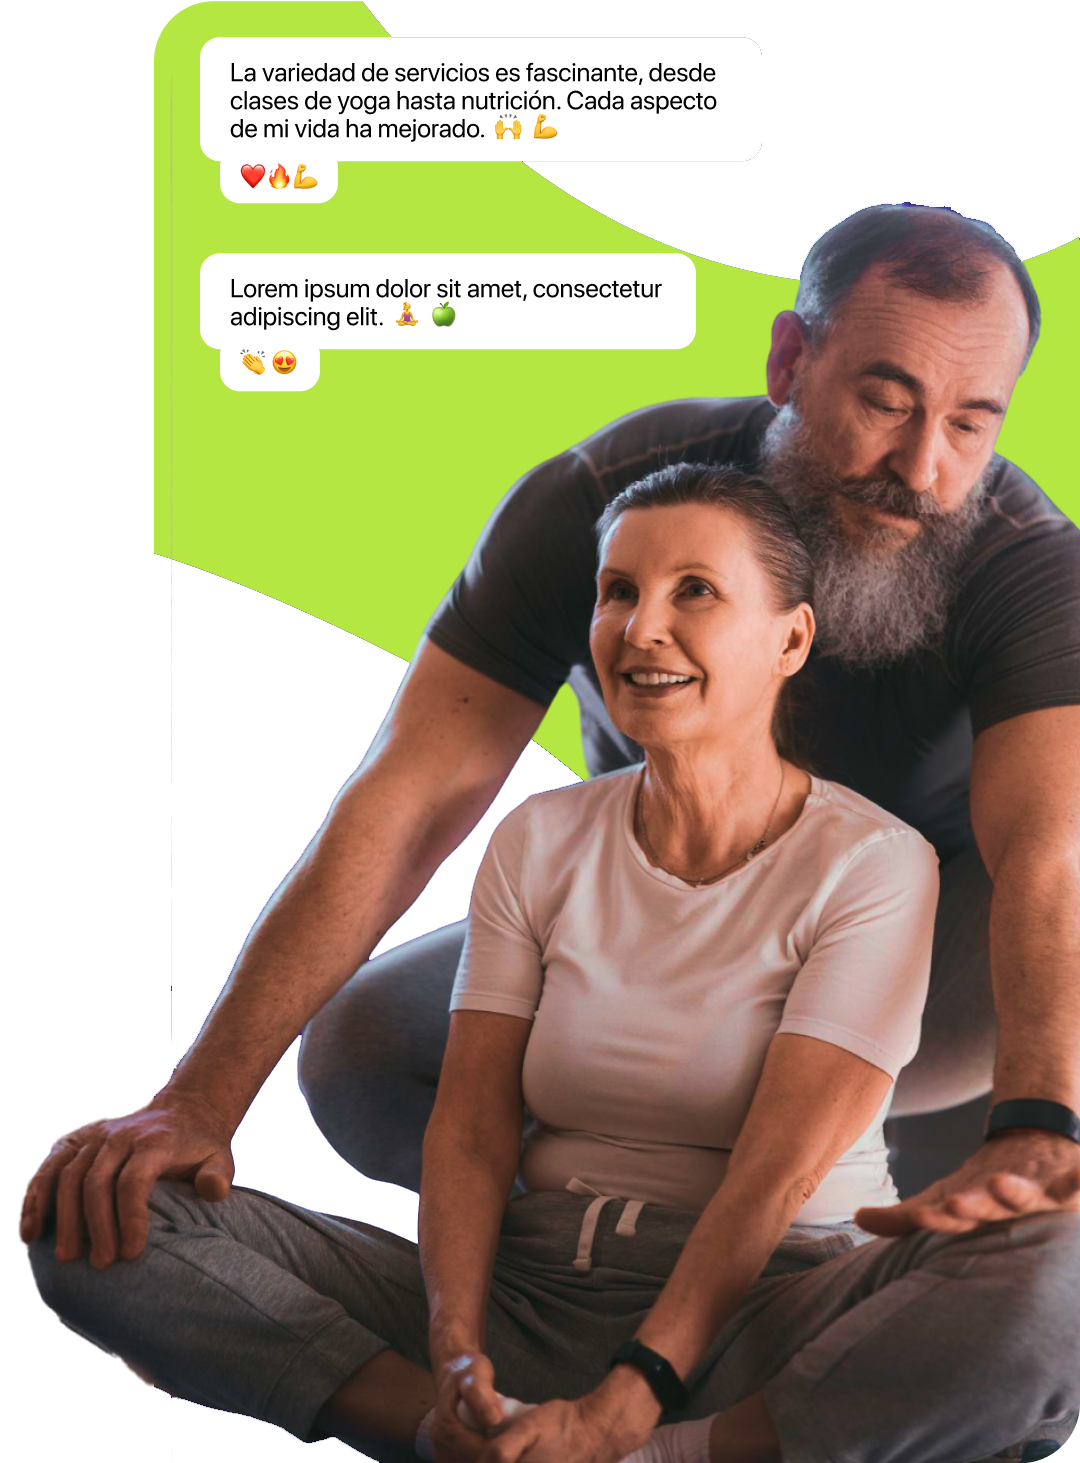
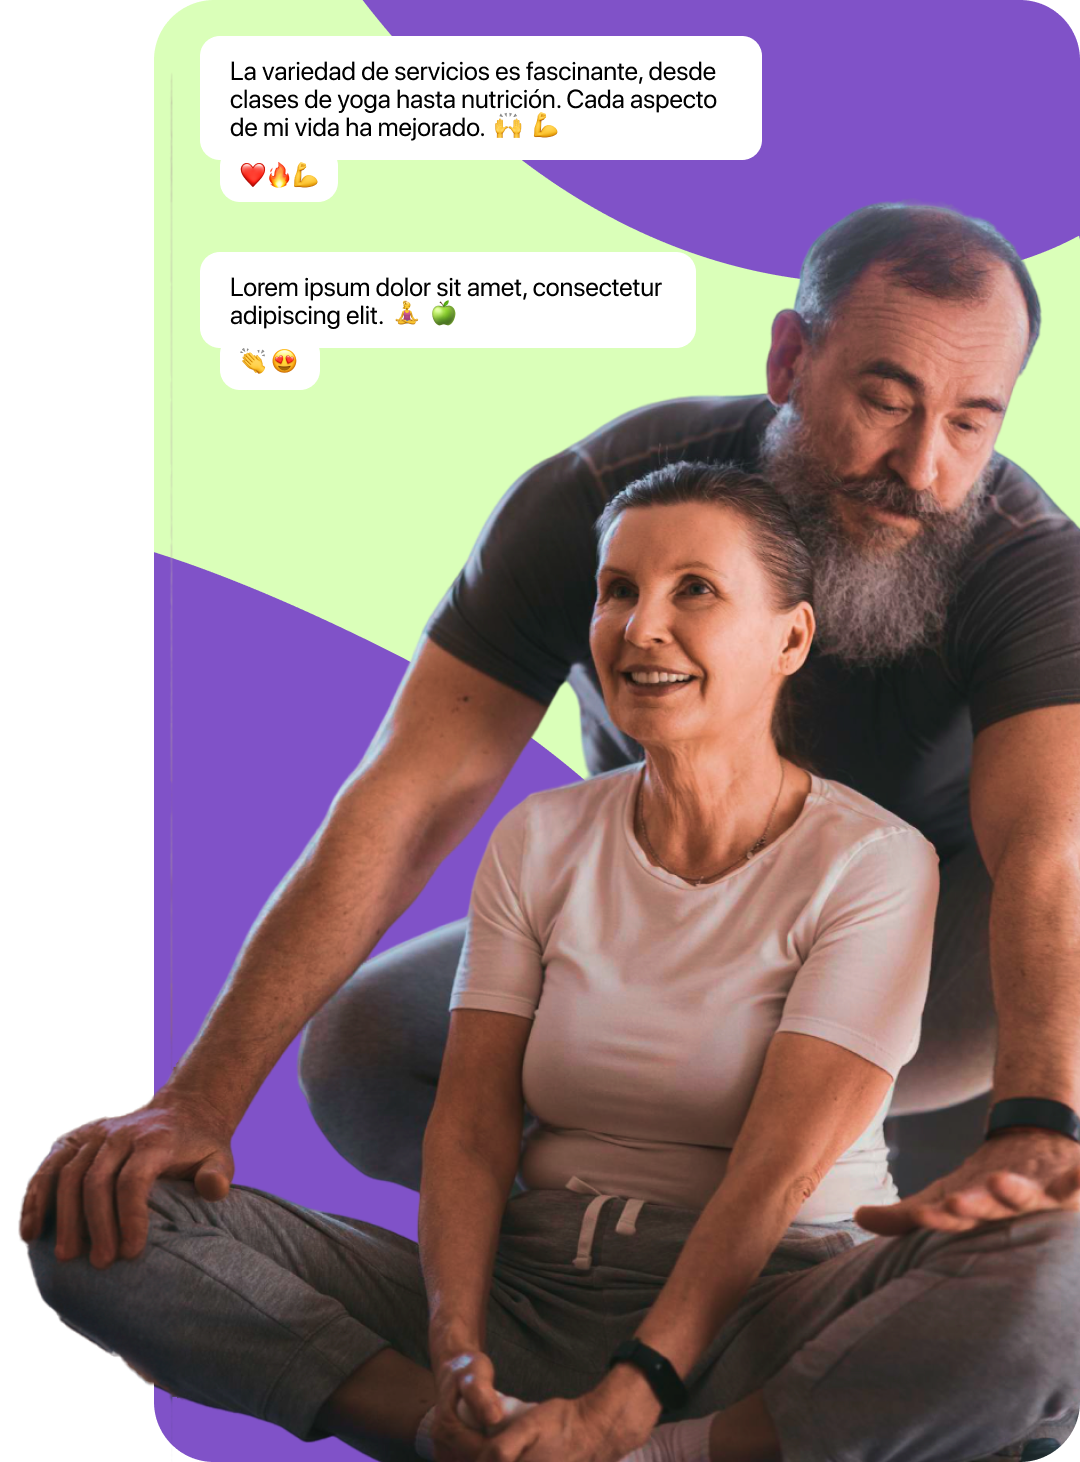
Prev color

diff --git a/index.html b/index.html
@@ -114,7 +114,7 @@
       <div class="container">
         <div class="row gy-4">
           <div class="col-lg-5 order-2 order-lg-1 d-flex flex-column justify-content-center" data-aos="zoom-out">
-            <h1>Despertá tu <span>potencial</span></h1>
+            <h1>Despertá tu <span>#potencial</span></h1>
             <br>
             <p>Descubre un espacio donde tu cuerpo y mente encuentran equilibrio. ¡Únete a nuestros cursos guiados por expertos y consigue la motivación y el conocimiento que necesitas para alcanzar tus metas!</p>
             <div class="d-flex">
@@ -127,11 +127,11 @@
 
             <br>
             <div class="clients-container" >
-              <div class="circle"></div>
-              <div class="circle"></div>
-              <div class="circle"></div>
-              <div class="circle"></div>
-              <div class="square">+1000 clientes satisfechos</div>
+              <div style="background-image: url('assets/img/testimonials/testimonials-1.jpg');" class="circle"></div>
+              <div style="background-image: url('assets/img/testimonials/testimonials-2.jpg');" class="circle"></div>
+              <div style="background-image: url('assets/img/testimonials/testimonials-3.jpg');" class="circle"></div>
+              <div style="background-image: url('assets/img/testimonials/testimonials-4.jpg');" class="circle"></div>
+              <div class="square">+100K clientes satisfechos</div>
             </div>
 
 
@@ -153,6 +153,63 @@
       <div class="container section-title" data-aos="fade-up">
         <img style="padding: 0%; margin: 0%; width: 120%;" src="assets/img/Palabras.png" alt="" class="img-fluid">
       </div><!-- Quotes img -->
+
+              <!-- Clients Section -->
+ 
+             <!-- <section id="clients" class="clients section">
+            
+    
+                <div class="container">
+          
+                  <div class="swiper">
+                    <script type="application/json" class="swiper-config">
+                      {
+                        "loop": true,
+                        "speed": 600,
+                        "autoplay": {
+                          "delay": 5000
+                        },
+                        "slidesPerView": "auto",
+                        "pagination": {
+                          "el": ".swiper-pagination",
+                          "type": "bullets",
+                          "clickable": true
+                        },
+                        "breakpoints": {
+                          "320": {
+                            "slidesPerView": 2,
+                            "spaceBetween": 40
+                          },
+                          "480": {
+                            "slidesPerView": 3,
+                            "spaceBetween": 60
+                          },
+                          "640": {
+                            "slidesPerView": 4,
+                            "spaceBetween": 80
+                          },
+                          "992": {
+                            "slidesPerView": 6,
+                            "spaceBetween": 120
+                          }
+                        }
+                      }
+                    </script>
+                    <div class="swiper-wrapper align-items-center">
+                      <div class="swiper-slide"><img src="assets/img/clients/client-1.png" class="img-fluid" alt=""></div>
+                      <div class="swiper-slide"><img src="assets/img/clients/client-2.png" class="img-fluid" alt=""></div>
+                      <div class="swiper-slide"><img src="assets/img/clients/client-3.png" class="img-fluid" alt=""></div>
+                      <div class="swiper-slide"><img src="assets/img/clients/client-4.png" class="img-fluid" alt=""></div>
+                      <div class="swiper-slide"><img src="assets/img/clients/client-5.png" class="img-fluid" alt=""></div>
+                      <div class="swiper-slide"><img src="assets/img/clients/client-6.png" class="img-fluid" alt=""></div>
+                      <div class="swiper-slide"><img src="assets/img/clients/client-7.png" class="img-fluid" alt=""></div>
+                      <div class="swiper-slide"><img src="assets/img/clients/client-8.png" class="img-fluid" alt=""></div>
+                    </div>
+                  </div>
+          
+                </div>
+          
+              </section> --><!-- /Clients Section -->
 
 
       <!-- Section Title --><!-- 
@@ -998,6 +1055,7 @@
                     <img src="assets/img/testimonials/testimonials-1.jpg" class="testimonial-img" alt="">
                     <h3>Saul Goodman</h3>
                     <h4>Ceo &amp; Founder</h4>
+                    
                     <div class="stars">
                       <i class="bi bi-star-fill"></i><i class="bi bi-star-fill"></i><i class="bi bi-star-fill"></i><i class="bi bi-star-fill"></i><i class="bi bi-star-fill"></i>
                     </div>

diff --git a/assets/css/main.css b/assets/css/main.css
@@ -93,7 +93,7 @@
 
 /*INICIO Clients-container */
 .square {
-  background-color: var(--accent-light-color);
+  background-color: var(--accent-light-2-color);
   display: flex;
   align-items: center;
   justify-content: center;
@@ -115,11 +115,13 @@
 
 .circle {
   border-radius: 50%;
-  background-color: red;
   width: 40px;
   height: 40px;
   position: absolute;
   top: 0;
+  background-size: cover; /* Ajusta la imagen para que cubra el área sin cambiar de proporción */
+  background-position: center; /* Centra la imagen dentro del contenedor */
+  background-repeat: no-repeat; /* Evita que la imagen se repita */
 }
 
 .circle:nth-child(1) { left: 0; }
@@ -162,7 +164,13 @@ a:hover {
   text-decoration: none;
 }
 
-h1,
+h1 {
+  color: var(--accent-light-pastel-color);
+  font-family: var(--font-bold);
+  font-weight: 700;
+  font-style: normal;
+}
+
 h2,
 h3,
 h4,
@@ -255,7 +263,7 @@ h6 {
 }
 
 .header .logo span {
-  color: var(--accent-color);
+  color: var(--accent-light-pastel-color);
   font-size: 30px;
   font-weight: 700;
 }
@@ -977,7 +985,8 @@ section,
 }
 
 .hero h1 span {
-  color: #B5E742; /* var(--accent-color); */
+  color: var(--accent-light-color); 
+  line-height: 120%;
   font-style: italic;
 }
 
@@ -1273,6 +1282,7 @@ section,
 .clients {
   --background-color: color-mix(in srgb, var(--accent-color), transparent 96%);
   padding: 25px 0;
+
 }
 
 .clients .swiper {
@@ -1282,15 +1292,13 @@ section,
 .clients .swiper-wrapper {
   height: auto;
 }
-
 .clients .swiper-slide img {
   transition: 0.3s;
 }
 
-.clients .swiper-slide img:hover {
+.clients .f img:hover {
   transform: scale(1.1);
-}
-
+} 
 /*--------------------------------------------------------------
 # Services Section
 --------------------------------------------------------------*/
@@ -1380,7 +1388,6 @@ section,
 .testimonials .testimonials-slider {
   overflow: hidden;
 }
-
 .testimonials .testimonial-item {
   text-align: center;
 }
@@ -1439,18 +1446,29 @@ section,
   margin: 0 auto 15px auto;
 }
 
-.testimonials .swiper-wrapper {
-  height: auto;
+/*
+.swiper-wrapper .swiper-slide {
+  height: 75px;
 }
 
+.swiper-wrapper .swiper-slide .img-fluid{
+  height: 75px;
+  width: auto;
+  object-fit: contain; 
+}
+ */
+
+ .testimonials .swiper-wrapper {
+  height: auto;}
+  
 .testimonials .swiper-pagination {
   margin-top: 20px;
   position: relative;
 }
 
 .testimonials .swiper-pagination .swiper-pagination-bullet {
-  width: 12px;
-  height: 12px;
+  width: 12px; 
+  height: 12px; 
   background-color: color-mix(in srgb, var(--default-color), transparent 50%);
   opacity: 0.5;
 }
